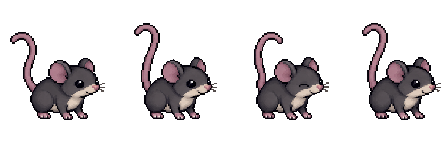
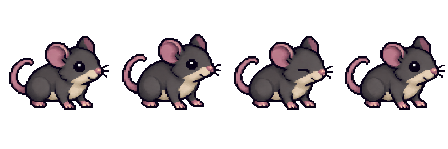
Give Explosive Rat a gentle breathing idle

Changed region(s): [[0.0, 0.1342, 1.0, 0.8054]]

diff --git a/web/static/css/style.css b/web/static/css/style.css
@@ -2002,9 +2002,16 @@ body.landing-page {
 img.chatter-profile-avatar { display: block; }
 .chatter-pet { display: grid; min-width: 122px; justify-items: center; align-self: center; color: var(--text); text-align: center; }
 .chatter-pet-sprite { width: 112px; height: 120px; background-image: var(--pet-sprite); background-position: 0 center; background-repeat: no-repeat; background-size: calc(112px * var(--pet-frames)) auto; image-rendering: pixelated; animation: chatter-pet-idle .72s steps(var(--pet-frames)) infinite; }
+.chatter-pet-sprite--rat { animation: chatter-rat-idle 1.8s step-end infinite; }
 .chatter-pet span { margin-top: -10px; font-size: 11px; font-weight: 800; }
 .chatter-pet small { margin-top: 3px; color: var(--accent); font-size: 10px; font-weight: 800; }
 @keyframes chatter-pet-idle { to { background-position-x: calc(-112px * var(--pet-frames)); } }
+@keyframes chatter-rat-idle {
+    0%, 27.77% { background-position-x: 0; }
+    27.78%, 55.55% { background-position-x: -112px; }
+    55.56%, 63.33% { background-position-x: -224px; }
+    63.34%, 100% { background-position-x: -336px; }
+}
 @media (prefers-reduced-motion: reduce) { .chatter-pet-sprite { animation: none; } }
 .chatter-level-summary { width: min(260px, 24vw); }
 .chatter-level-summary > div:first-child { display: flex; align-items: baseline; justify-content: space-between; gap: 16px; }

diff --git a/web/templates/public/chatter_profile.html b/web/templates/public/chatter_profile.html
@@ -38,7 +38,7 @@
             </div>
             {% if profile.pet %}
                 <div class="chatter-pet" title="{{ profile.pet.display_name }} ({{ profile.pet.rarity | replace('_', ' ') | title }}) · Level {{ profile.pet.level }} · {{ profile.pet.passive_name }} ({{ profile.pet.passive_rarity | replace('_', ' ') | title }})">
-                    <div class="chatter-pet-sprite" style="--pet-sprite: url('{{ profile.pet.sprite_path }}?v={{ deployment_stamp() | urlencode }}'); --pet-frames: {{ profile.pet.frame_count }}" role="img" aria-label="{{ profile.pet.display_name }}"></div>
+                    <div class="chatter-pet-sprite{% if profile.pet.pet_id == 'explosive_rat' %} chatter-pet-sprite--rat{% endif %}" style="--pet-sprite: url('{{ profile.pet.sprite_path }}?v={{ deployment_stamp() | urlencode }}'); --pet-frames: {{ profile.pet.frame_count }}" role="img" aria-label="{{ profile.pet.display_name }}"></div>
                     <span>{{ profile.pet.display_name }} · {{ profile.pet.rarity | replace('_', ' ') | title }}</span>
                     <small>{{ profile.pet.passive_name }} · {{ profile.pet.passive_rarity | replace('_', ' ') | title }}</small>
                     <small>{{ profile.pet.passive_percent_label }}% {{ profile.pet.passive_description }}</small>

diff --git a/tests/test_public_chatter_profiles.py b/tests/test_public_chatter_profiles.py
@@ -92,6 +92,7 @@ class FakePets:
     async def get_equipped_pet(self, user_id: str):
         assert user_id == "user-1"
         return SimpleNamespace(
+            pet_id="dungeon_bat",
             display_name="Silly Bat",
             rarity="common",
             level=1,
@@ -143,6 +144,26 @@ def test_public_global_chatter_profile_renders_equipped_pet(monkeypatch) -> None
     assert "10% bonus loyalty points earned" in response.text
     assert "/assets/Silly%20Bat.png?v=" in response.text
     assert "--pet-frames: 4" in response.text
+
+
+def test_public_profile_uses_rat_idle_animation(monkeypatch) -> None:
+    class FakeRat(FakePets):
+        async def get_equipped_pet(self, user_id: str):
+            pet = await super().get_equipped_pet(user_id)
+            pet.pet_id = "explosive_rat"
+            pet.display_name = "Explosive Rat"
+            pet.sprite_path = "/assets/Explosive%20Rat.png"
+            return pet
+
+    services = SimpleNamespace(chatter_stats=FakeChatterStats(), pets=FakeRat())
+    monkeypatch.setattr("web.public.routers.get_bot", lambda: SimpleNamespace(services=services))
+
+    with TestClient(app) as client:
+        response = client.get("/chatters/alice")
+
+    assert response.status_code == 200
+    assert 'class="chatter-pet-sprite chatter-pet-sprite--rat"' in response.text
+    assert "/assets/Explosive%20Rat.png?v=" in response.text
 
 
 def test_public_channel_chatter_profile_renders(monkeypatch) -> None:
